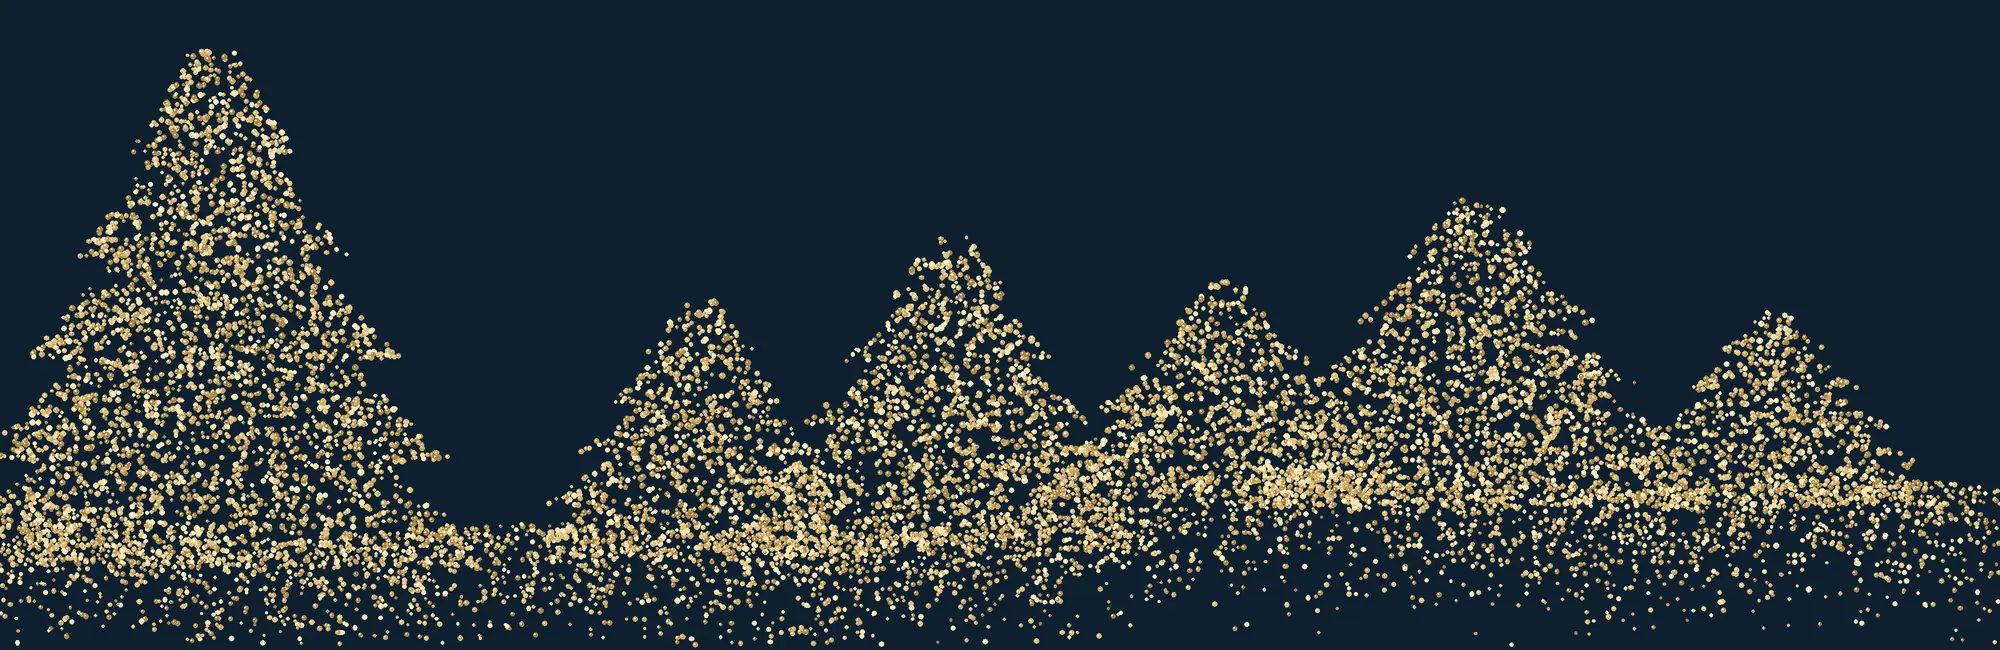
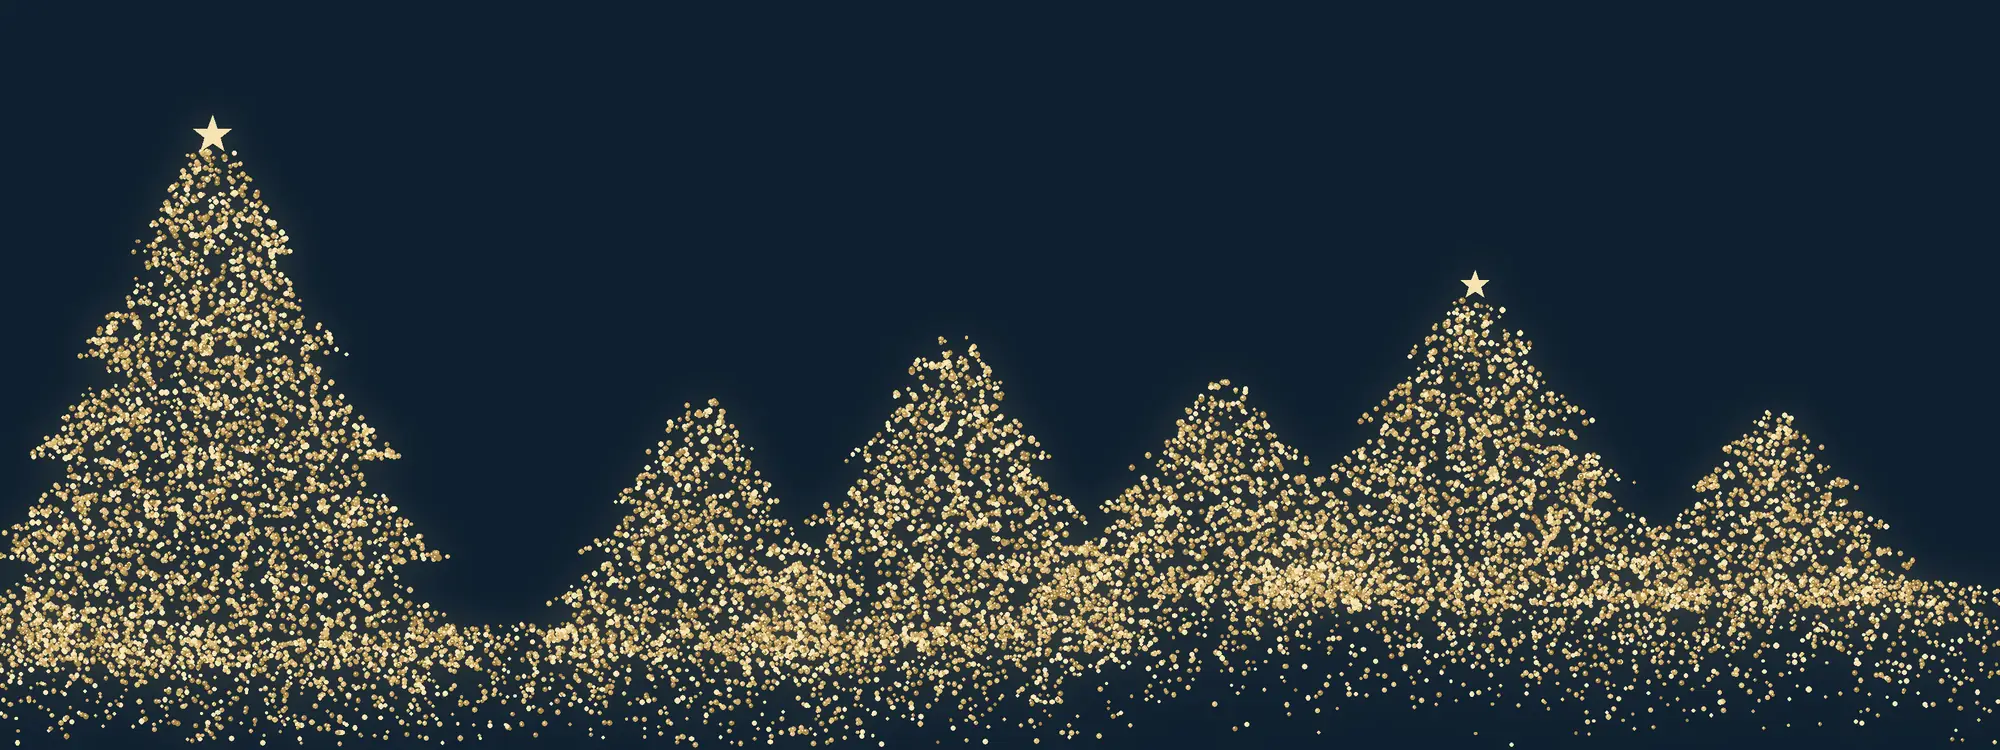
natal: pinheiros dourados inteiros (sem corte), estrela no topo, brilho e estrelas a cintilar
Claude-Session: https://claude.ai/code/session_016kDCgSbV3aH2Gv4yMKKtu1

diff --git a/style.css b/style.css
@@ -1919,3 +1919,21 @@ html.natal .brand strong::after { color: var(--ouro); }
 .natal-despedida { background: var(--noite); }
 .natal-floresta { margin-top: 16px; }
 html.natal .natal-palco .hero-actions .button.primary { background: var(--ouro); border-color: var(--ouro); color: var(--noite-funda); }
+/* floresta inteira (sem cortar o topo) + estrelas a cintilar */
+.natal-floresta {
+  height: auto; aspect-ratio: 2000 / 750; min-height: 220px;
+  background-size: cover; background-position: center bottom;
+}
+.natal-palco::after {
+  content: ""; position: absolute; inset: 0 0 40% 0; pointer-events: none;
+  background-image:
+    radial-gradient(2px 2px at 18% 14%, #fff7e0, transparent 70%),
+    radial-gradient(2.4px 2.4px at 63% 6%, #fff7e0, transparent 70%),
+    radial-gradient(2px 2px at 81% 20%, #fff7e0, transparent 70%),
+    radial-gradient(1.8px 1.8px at 36% 32%, #fff7e0, transparent 70%);
+  animation: natal-cintila 3.2s ease-in-out infinite alternate;
+}
+@keyframes natal-cintila { from { opacity: 0.15; } to { opacity: 1; } }
+@media (prefers-reduced-motion: reduce) { .natal-palco::after { animation: none; } }
+.natal-palco .natal-floresta { margin-top: -90px; }
+@media (max-width: 860px) { .natal-palco .natal-floresta { margin-top: -30px; } }
